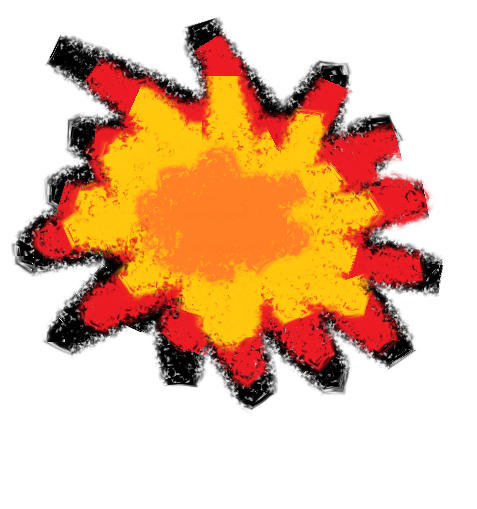
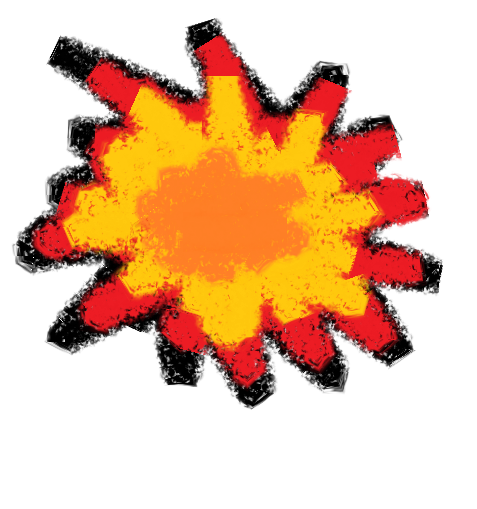
Add files via upload
Barulho e sprite de morte

diff --git a/main.py b/main.py
@@ -27,6 +27,13 @@ PLANO_DE_FUNDO = pygame.transform.scale(pygame.image.load(os.path.join(BASE_DIR,
 #carregando porta de sair
 PORTA = pygame.transform.scale(pygame.image.load(os.path.join(BASE_DIR, "assets", "porta.png")), (82, 105))
 
+#carregando explosão para o fim de jogo
+EXPLOSAO = pygame.transform.scale(pygame.image.load(os.path.join(BASE_DIR, "assets", "explosão.png")), (190,190))
+
+#carregando som de morte do jogador
+morte = pygame.mixer.Sound(os.path.join(BASE_DIR, "assets", "explosao_fim_de_jogo.ogg"))
+
+
 # Novo evento criado para aumentar a pontuação conforme passa o tempo
 tempo = pygame.USEREVENT + 1
 pygame.time.set_timer(tempo, 5000)
@@ -102,6 +109,8 @@ class Main():
             jogador.desenhar(WIN, height_barra, parado)
 
             if fim_de_jogo:
+
+                WIN.blit(EXPLOSAO, (jogador.x - 50, jogador.y-20))
                 fim_de_jogo_label = fonte_fim_de_jogo.render("Aguarde", True, preto)
                 WIN.blit(fim_de_jogo_label, (WIDTH / 2 - fim_de_jogo_label.get_width() / 2,
                                              HEIGHT / 2 - fim_de_jogo_label.get_height() / 2))
@@ -121,9 +130,11 @@ class Main():
                 if vidas >= 1:
                     jogador.saude = saude
                     vidas -= 1
-                else:
-                    fim_de_jogo = True
-                    contador_fim_de_jogo += 1
+
+               #else:
+
+                #    fim_de_jogo = True
+                 #   contador_fim_de_jogo += 1
 
             if vidas <= 0:
                 fim_de_jogo = True
@@ -131,8 +142,12 @@ class Main():
 
             # A pontuacao é retornada quando o jogador perde
             if fim_de_jogo:
+
+
                 velocidade_inimigo=0
-                if contador_fim_de_jogo > FPS * 3:
+                if contador_fim_de_jogo == FPS/60:
+                    morte.play()
+                elif contador_fim_de_jogo > FPS * 3:
                     return jogador.pontuacao
                 else:
                     continue
